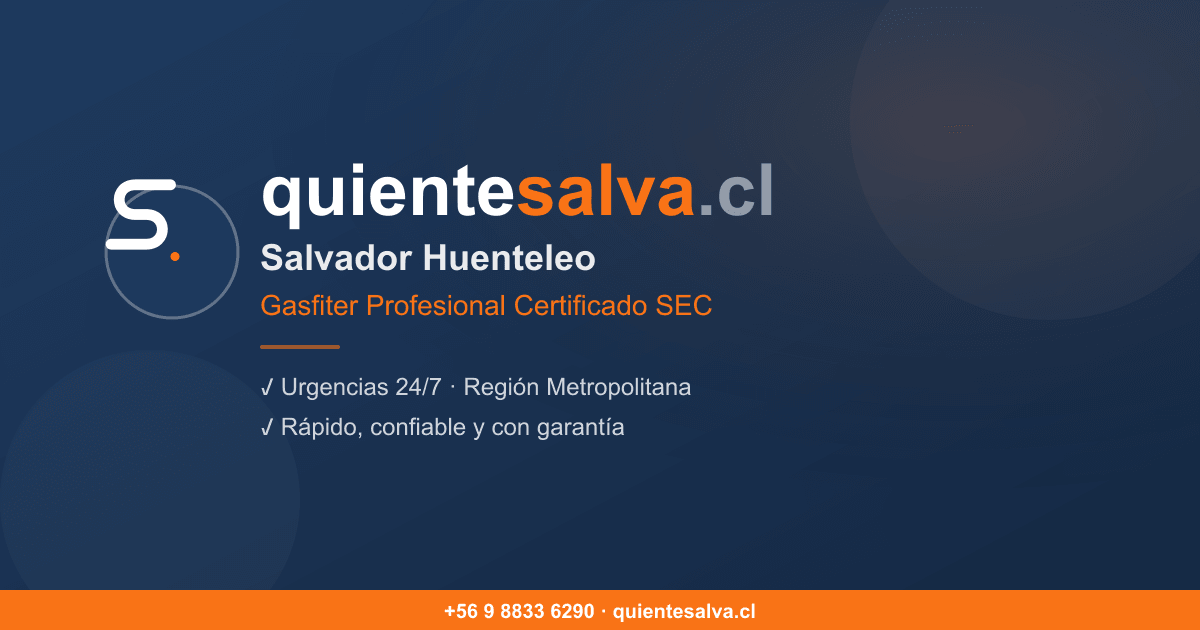
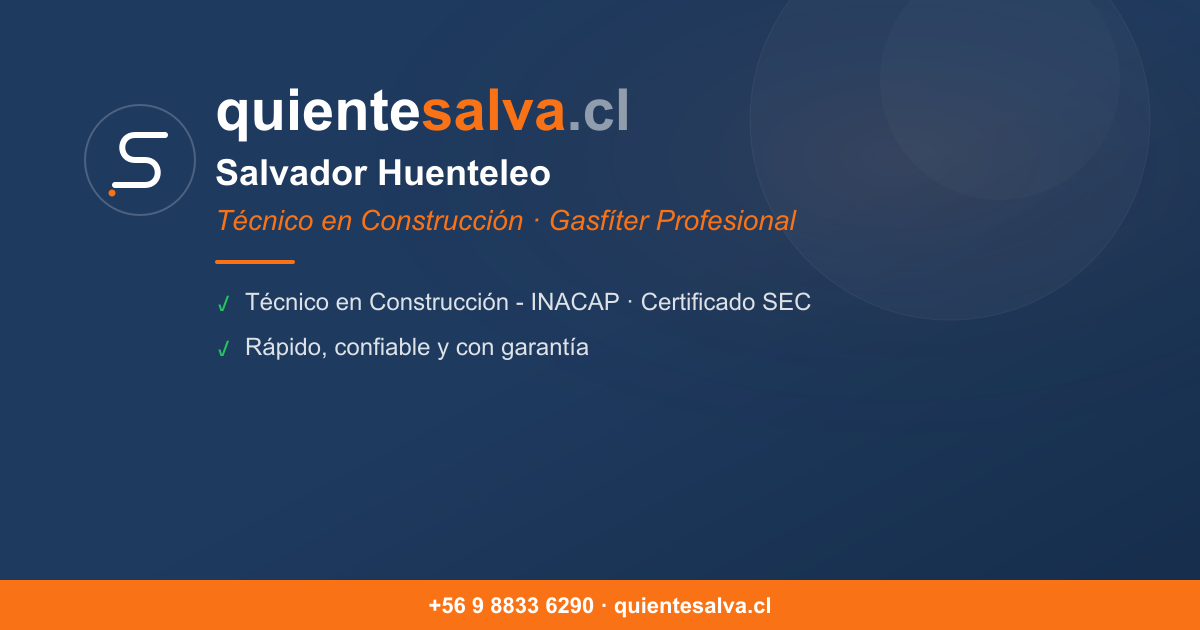
fix OG image y contenido de la pagina

diff --git a/src/data/siteConfig.ts b/src/data/siteConfig.ts
@@ -1,6 +1,6 @@
 export const siteConfig = {
   name: "Salvador Huenteleo",
-  role: "Gasfiter Profesional",
+  role: "Técnico en Construcción · Gasfíter Profesional",
   slogan: "Rápido, confiable y con garantía",
   domain: "quientesalva.cl",
   whatsapp: "56988336290",
